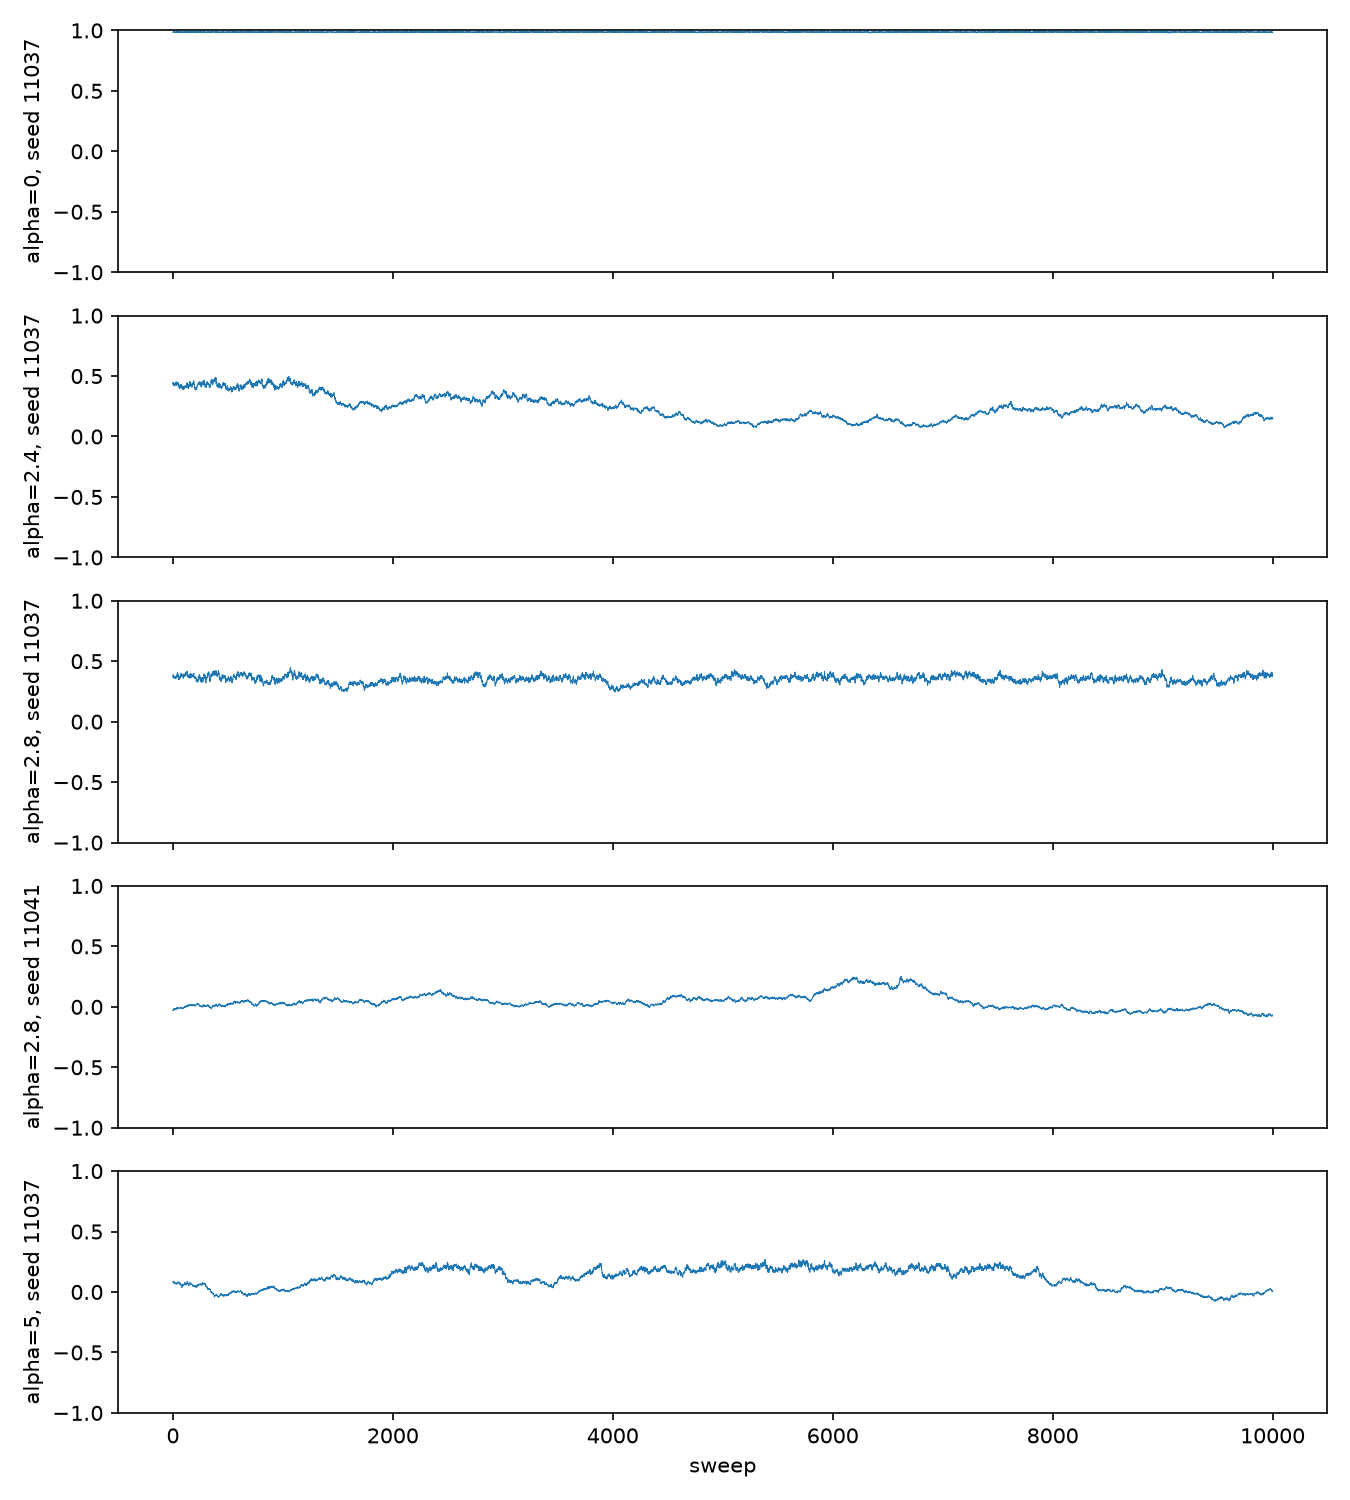
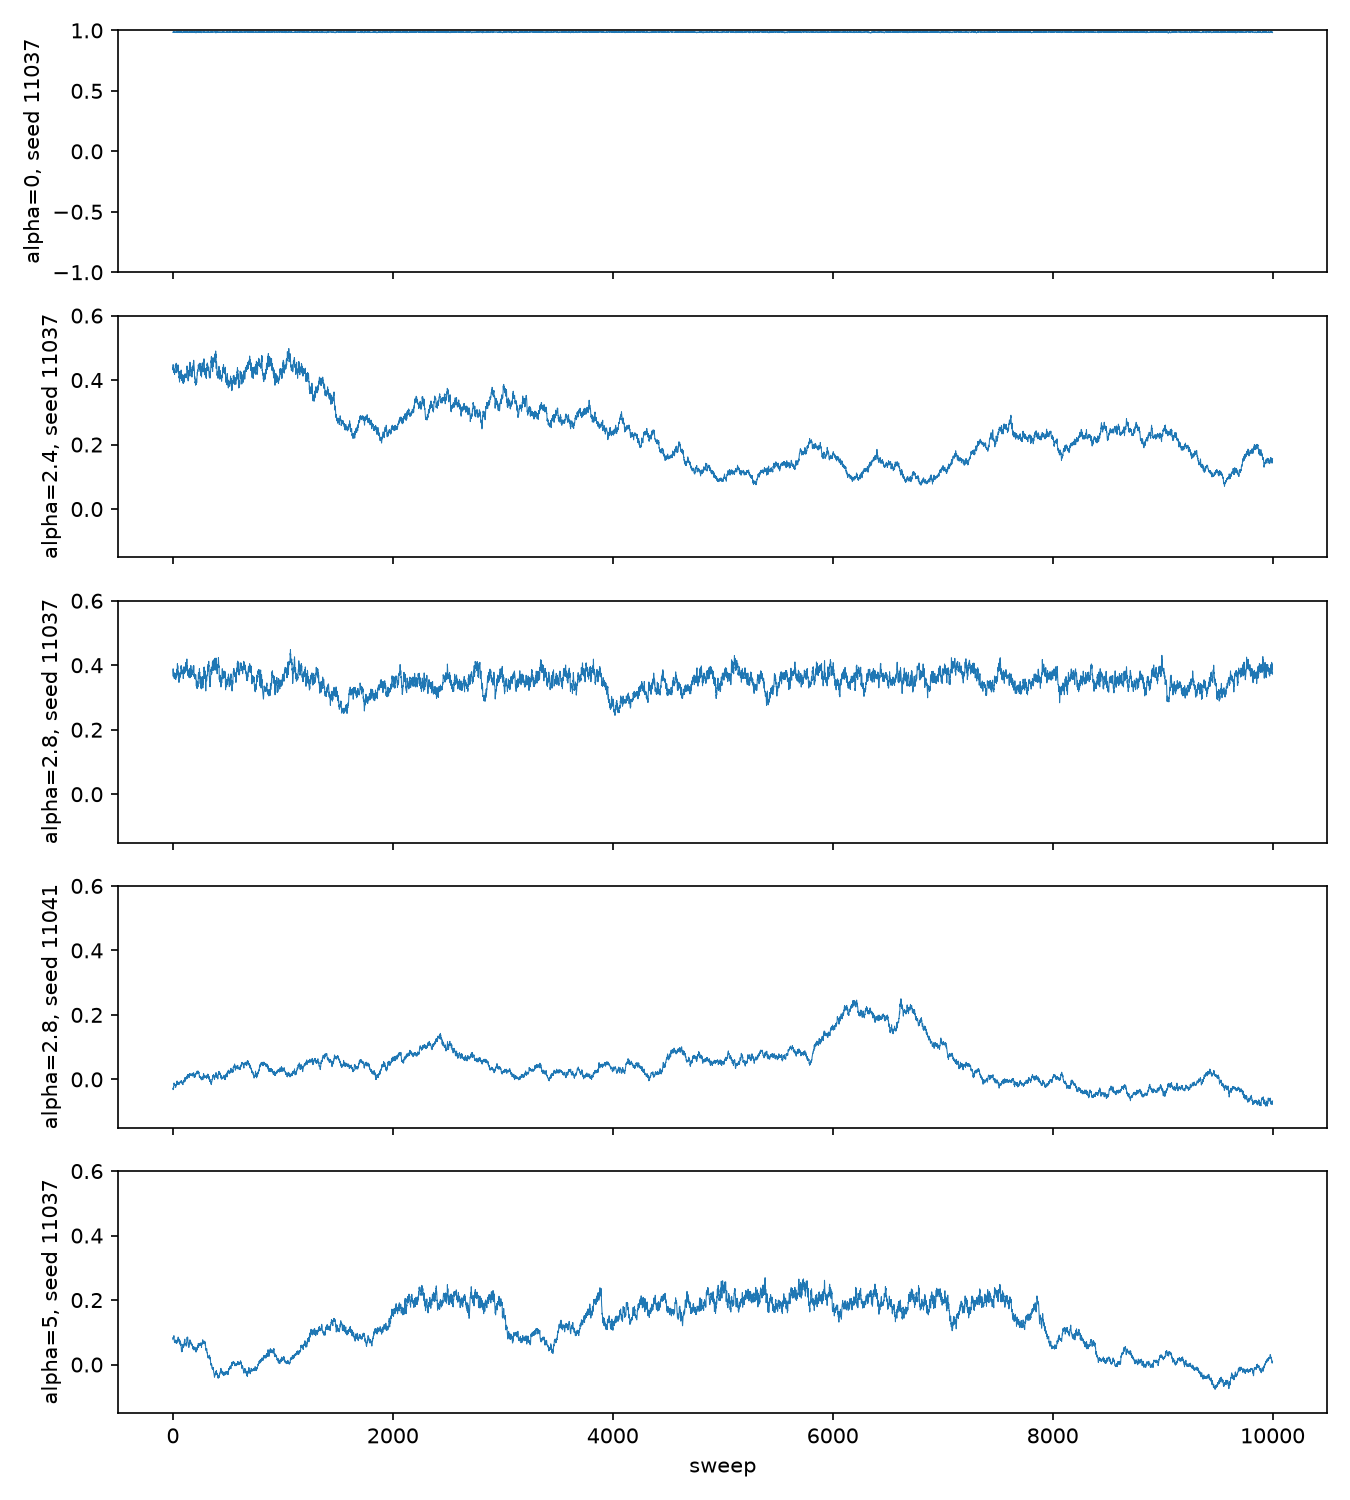
New and Improved graphs

diff --git a/trace_plots.py b/trace_plots.py
@@ -13,9 +13,17 @@ for ax, (a, seed) in zip(axes, runs):
         print('missing file:', path)
         continue
     df = pd.read_csv(path)
-    ax.plot(df['t'], df['m'], lw=0.5)
+    m = df['m']
+    ax.plot(df['t'], m , lw=0.5)
     ax.set_ylabel(f'alpha={float(a):g}, seed {seed}')
-    ax.set_ylim(-1, 1)
+
+    if float(a) == 0:
+        ax.set_ylim(-1,1)
+
+    else:
+        ax.set_ylim(-0.15, 0.6)
+
 axes[-1].set_xlabel('sweep')
 plt.tight_layout()
 plt.savefig('fig_m_traces.png', dpi=150)
+
